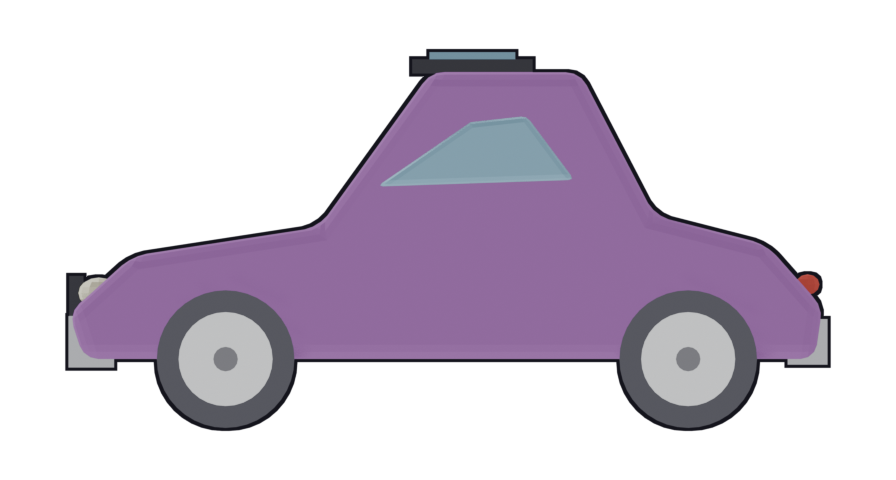
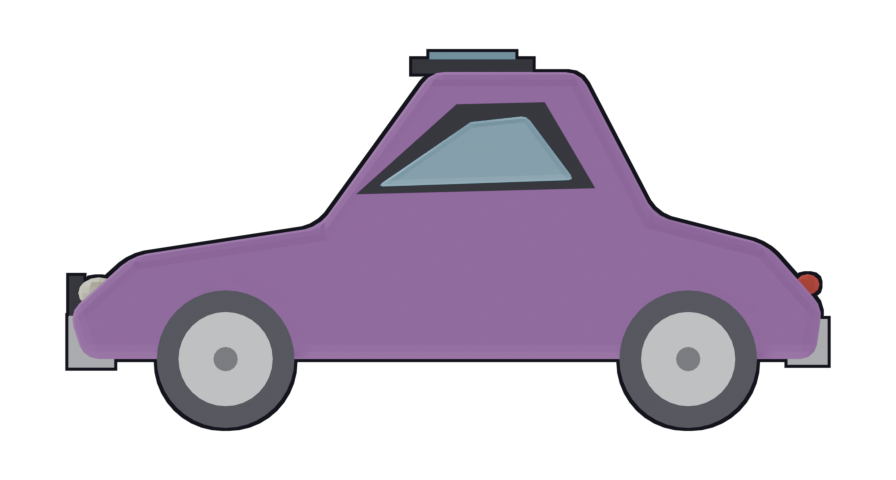
Art: add dark cabin frames behind car glass
Glass now sits inside a darker reveal so windows read as inset in the
body, not oversized stickers on the silhouette.

Changed region(s): [[0.4062, 0.1875, 0.6875, 0.4062]]

diff --git a/tools/blender/models.py b/tools/blender/models.py
@@ -202,8 +202,14 @@ def build_car(
             [(L * 0.78, 1.0), (L * 0.82, 1.42), (-L * 0.82, 1.42), (-L * 0.78, 1.0)],
             0.1,
         )
+        frame = extrude_profile(
+            f"{kind}_win_frame", _inset_poly(
+                [(L * 0.78, 1.0), (L * 0.82, 1.42), (-L * 0.82, 1.42), (-L * 0.78, 1.0)],
+                0.04,
+            ), width=1.18, material=dark,
+        )
         win = extrude_profile(f"{kind}_win", win_pts, width=glass_w, material=glass)
-        parts.append(win)
+        parts.extend([frame, win])
         stripe = mesh_cube(
             f"{kind}_stripe", (3.0, 1.16, 0.12), (0, 0, 0.7),
             toon_material(f"{kind}_stripe", (1.0, 0.86, 0.12, 1.0), steps=2),
@@ -246,9 +252,14 @@ def build_car(
                 (-L * 0.42, 0.80),
             ]
             win_pts = _inset_poly(cabin, 0.12)
+        # Dark reveal behind glass so the cabin reads as a framed placeholder.
+        frame_pts = _inset_poly(cabin, 0.04)
+        frame = extrude_profile(
+            f"{kind}_win_frame", frame_pts, width=1.18, material=dark
+        )
         win = extrude_profile(f"{kind}_win", win_pts, width=glass_w, material=glass)
         bevel(win, width=0.02, segments=2)
-        parts.append(win)
+        parts.extend([frame, win])
 
     # Bumpers + near-side lights only (far-side lights ghost in ortho +Y).
     parts.append(mesh_cube(f"{kind}_fb", (0.16, 1.05, 0.18), (length * 0.48, 0, 0.28), chrome))
